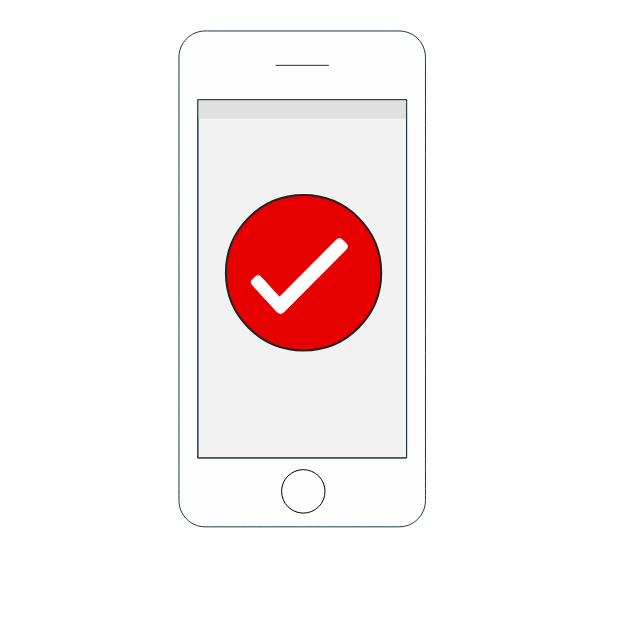
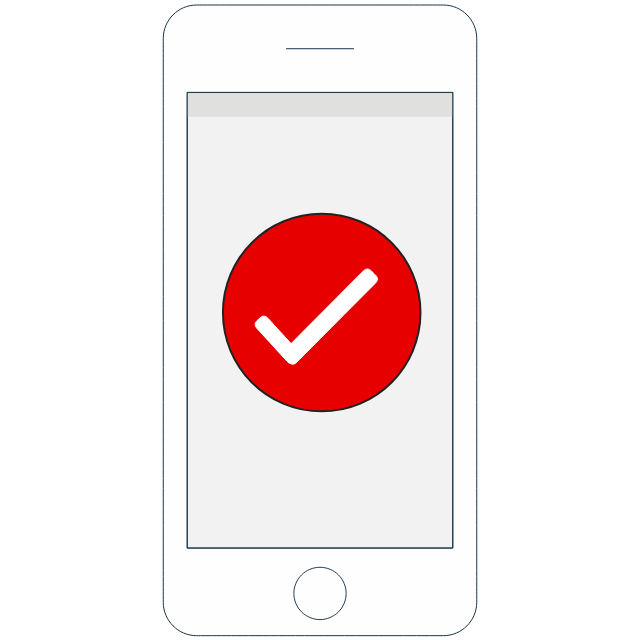
corrected success screen notification

diff --git a/src/features/addAccount/notifications/Success.js b/src/features/addAccount/notifications/Success.js
@@ -46,8 +46,8 @@ const NotifySuccess = () => {
 
     return (
         <View style={styles.container}>
-            <Image style={styles.image} source={assets.images.success}></Image>
             <View>
+                <Image style={styles.image} source={assets.images.success} />
                 <Text style={styles.instructions}>
                     This device and your
                     <Text style={{ fontWeight: 'bold' }}> {serviceName} </Text>
@@ -80,12 +80,11 @@ const styles = StyleSheet.create({
         textAlign: 'center',
         marginLeft: 20,
         color: 'black',
-        marginBottom: 5,
         fontSize: 18,
-        paddingRight: 26
+        marginTop: -50
     },
     image: {
-        width: 150,
-        height: 150
+        width: 300,
+        height: 300
     }
 });

diff --git a/src/features/accounts/AccountsScreen.js b/src/features/accounts/AccountsScreen.js
@@ -20,7 +20,10 @@ const Main = () => {
     }, [JSON.stringify(navigation)]);
 
     const onDeviceInfo = useCallback(() => {
-        navigation.navigate(screensIdentifiers.deviceInfo);
+        // navigation.navigate(screensIdentifiers.deviceInfo);
+        navigation.navigate(screensIdentifiers.success, {
+            serviceName: 'TEST'
+        });
     }, [JSON.stringify(navigation)]);
 
     return (
